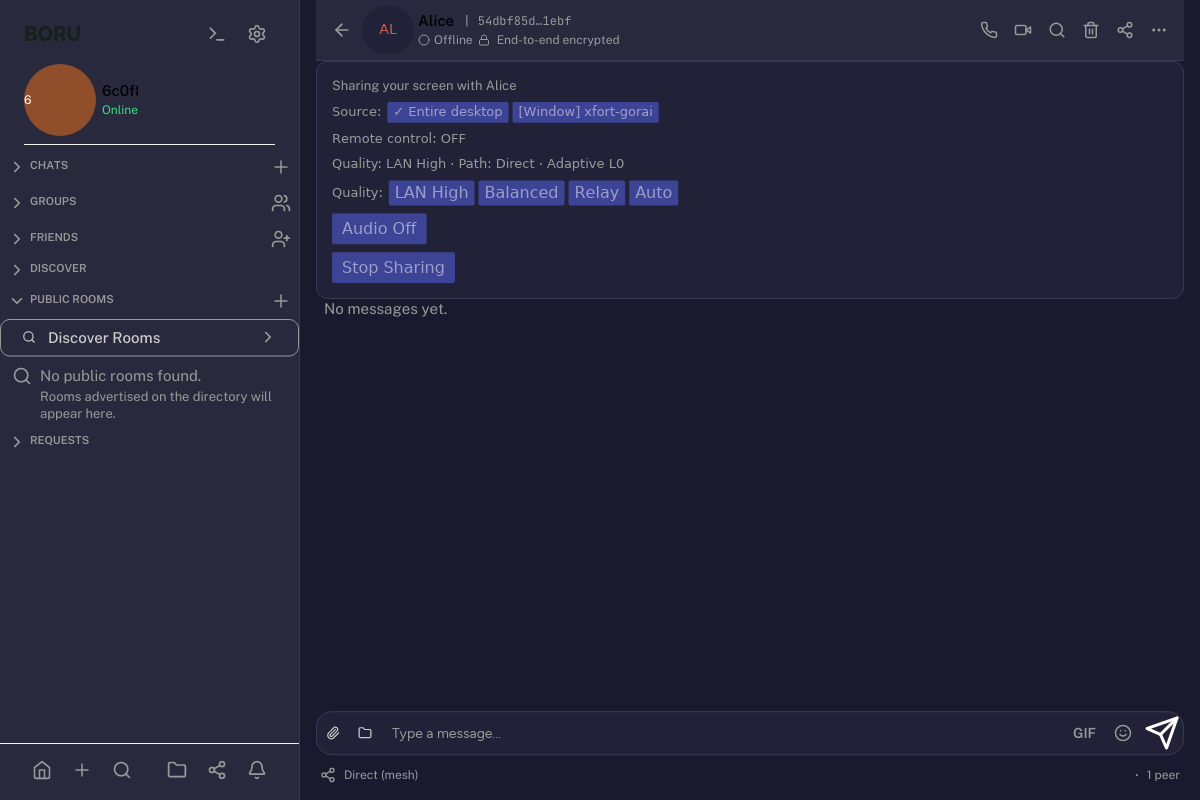
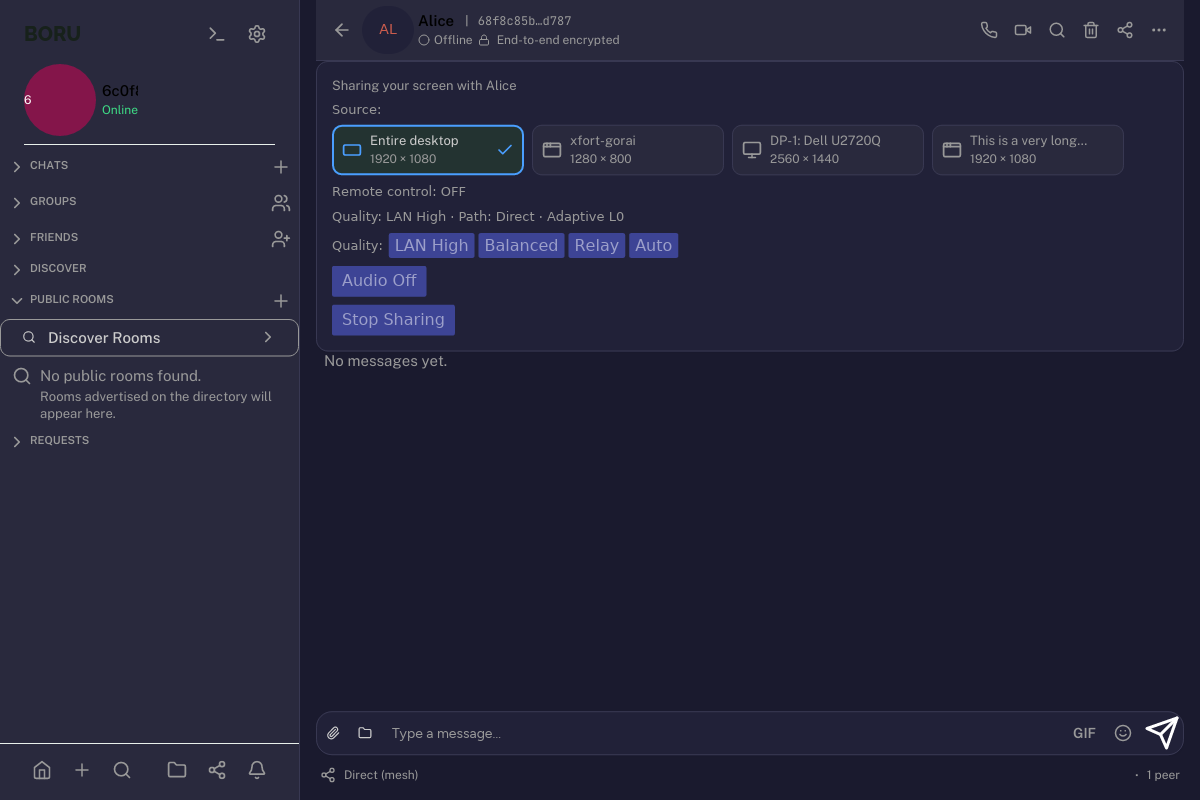
BORU-SSUI-03: screen/window source selector as cards (t_66e08287)
Replace the sender screen-share source picker's blue text buttons with
selectable source CARDS in a horizontally scrollable row (chat.rs
view_screen_share_panel). Each card shows a source-type icon, the
ellipsized runtime source/window title (Wrapping::None + clip container so
a long title can never grow the card), native dimensions on a second line,
and a clear selected state: accent 2px border + primary_soft background +
a check glyph on the right edge (never colour alone). Unselected cards use
the neutral surface with a subtle border_muted border and hover/pressed
feedback (surface_hover/surface_pressed + accent border on hover), the
same interaction language as the rest of Boru.

Distinct icons per kind via Icon::Window (app-window.svg), Icon::Desktop
(rectangle-horizontal.svg) and the existing Icon::Monitor; Icon::Panel
(panels-top-left.svg) is reserved for a future panel/special-surface kind
(document gap in icon_system.rs + source_kind_icon). The dispatch message
is unchanged (AppMessage::ScreenShareSelectSource -> HostCommand::SwitchSource),
so capture switching behaviour is preserved exactly. Style values use the
shared design tokens; BORU-SSUI-08 migrates them into screen_share.* TOML
tokens.

Offscreen capture seed now includes a Monitor source and a very long window
title; light+dark captures regenerated and vision-verified (distinct icons,
accent+check selected state, ellipsized long title, dims on line 2).
[…]

diff --git a/examples/iced_chat/app/chat.rs b/examples/iced_chat/app/chat.rs
@@ -516,37 +516,38 @@ impl IcedChat {
             }
 
             // ── Monitor/source selection (PDF Phase 13) ───────────────
-            // The enumerated monitor list is shown in every active state so
+            // The enumerated source list is shown in every active state so
             // the sharer can pick the initial source before the viewer
-            // accepts and switch it any time afterwards. The chosen entry is
-            // highlighted; picking one sends HostCommand::SwitchSource.
+            // accepts and switch it any time afterwards. The chosen entry
+            // is highlighted; picking one sends HostCommand::SwitchSource.
+            // BORU-SSUI-03: sources render as selectable CARDS (kind icon +
+            // ellipsized title + dimensions + selected state) instead of
+            // the old blue text buttons, in a horizontally scrollable row
+            // so more sources than fit never wrap into a wall of buttons.
+            // The message dispatched is unchanged — `ScreenShareSelectSource`
+            // — so capture switching behaviour is preserved exactly.
             if let Some(sources) = &self.screen_share_sources {
                 if !sources.is_empty() {
                     let selected = self.screen_share_selected_source;
-                    let source_row: Vec<iced::Element<'_, AppMessage>> = sources
+                    let cards: Vec<iced::Element<'_, AppMessage>> = sources
                         .iter()
                         .map(|source| {
                             let is_selected = selected == Some(source.id);
-                            let label = if is_selected {
-                                format!("✓ {}", source.picker_label())
-                            } else {
-                                source.picker_label()
-                            };
-                            button(text(label).size(crate::fonts::TypeRole::SupportingText.size_px()))
-                                .on_press(AppMessage::ScreenShareSelectSource(source.id))
-                                .padding([2, 6])
-                                .into()
+                            self.view_source_card(source, is_selected)
                         })
                         .collect();
                     items.push(
-                        row![
+                        column![
                             text(crate::i18n::t("screenshare.source"))
                                 .size(crate::fonts::TypeRole::SupportingText.size_px())
                                 .color(Self::muted_color(self.dark_mode)),
-                            row(source_row).spacing(SPACE_4),
+                            iced::widget::scrollable(row(cards).spacing(SPACE_8))
+                                .direction(iced::widget::scrollable::Direction::Horizontal(
+                                    iced::widget::scrollable::Scrollbar::default().spacing(SPACE_4),
+                                ))
+                                .width(Length::Fill),
                         ]
                         .spacing(SPACE_6)
-                        .align_y(iced::Alignment::Center)
                         .into(),
                     );
                 }
@@ -975,6 +976,187 @@ impl IcedChat {
             // BORU-SS-37: system audio is a separate optional capability.
             Capability::Audio => "audio".to_string(),
             Capability::ViewScreen => "view".to_string(),
+        }
+    }
+
+    #[cfg(feature = "screen-sharing")]
+    /// BORU-SSUI-03: map a capture-source kind to a distinct source-picker
+    /// icon. `CaptureSourceKind` today emits Monitor/Window/Desktop; there
+    /// is no Panel/special-surface kind yet, so `Icon::Panel` stays
+    /// reserved (documented gap — see icon_system.rs).
+    fn source_kind_icon(kind: boru_core::screen_share::CaptureSourceKind) -> Icon {
+        use boru_core::screen_share::CaptureSourceKind;
+        match kind {
+            CaptureSourceKind::Monitor => Icon::Monitor,
+            CaptureSourceKind::Window => Icon::Window,
+            CaptureSourceKind::Desktop => Icon::Desktop,
+        }
+    }
+
+    #[cfg(feature = "screen-sharing")]
+    /// BORU-SSUI-03: one selectable source card for the screen-share
+    /// source picker.
+    ///
+    /// Replaces the old blue text buttons. Each card carries a source-type
+    /// icon, the ellipsized runtime source/window title, and the native
+    /// dimensions on a second line. The selected card gets an accent
+    /// border + soft accent background + a check glyph (never colour
+    /// alone); unselected cards use a neutral surface with a subtle border
+    /// and hover/pressed feedback. Clicking dispatches the SAME
+    /// `ScreenShareSelectSource(source.id)` message the text buttons used,
+    /// so capture switching behaviour is unchanged.
+    fn view_source_card(
+        &self,
+        source: &CaptureSource,
+        selected: bool,
+    ) -> iced::Element<'_, AppMessage> {
+        use iced::widget::{button, column, container, row, text, Space};
+        use iced::Length;
+
+        const SOURCE_CARD_WIDTH: f32 = 192.0;
+        // Title char budget keeps a single card from blowing up on a very
+        // long window title; the remainder is shown as a Unicode ellipsis
+        // (the repo's `truncate_with_ellipsis` helper). `Wrapping::None` +
+        // a clip container guarantee the line never wraps and grows the
+        // card (same single-line pattern as sidebar rows).
+        const TITLE_MAX_CHARS: usize = 20;
+
+        let dark_mode = self.dark_mode;
+        let theme = self.theme();
+
+        let kind_icon = Self::source_kind_icon(source.kind);
+        let icon_color = if selected {
+            crate::design_tokens::primary
+        } else {
+            crate::design_tokens::text_secondary
+        };
+        let icon = kind_icon
+            .build()
+            .size(IconSize::Md)
+            .color_fn(icon_color)
+            .build();
+
+        let title = crate::presentation::truncate_with_ellipsis(&source.title, TITLE_MAX_CHARS);
+        let dims = format!("{} × {}", source.width, source.height);
+
+        let title_color = if selected {
+            crate::design_tokens::text_primary(&theme)
+        } else {
+            crate::design_tokens::text_secondary(&theme)
+        };
+
+        let mut card_row = row![
+            icon,
+            column![
+                container(
+                    text(title)
+                        .size(crate::fonts::TypeRole::SupportingText.size_px())
+                        .font(crate::fonts::TypeRole::SupportingText.font())
+                        .color(title_color)
+                        .wrapping(iced::widget::text::Wrapping::None)
+                        .width(Length::Fill),
+                )
+                .width(Length::Fill)
+                .clip(true),
+                text(dims)
+                    .size(crate::fonts::TypeRole::Metadata.size_px())
+                    .font(crate::fonts::TypeRole::Metadata.font())
+                    .color(Self::muted_color(dark_mode))
+                    .wrapping(iced::widget::text::Wrapping::None)
+                    .width(Length::Fill),
+            ]
+            .spacing(SPACE_2)
+            .width(Length::Fill),
+        ]
+        .spacing(SPACE_8)
+        .align_y(iced::Alignment::Center);
+
+        // Clear selection indicator — a check glyph on the right edge. It is
+        // NOT colour-alone: the accent border + soft background + check are
+        // all present, so the state reads even for colour-blind users.
+        if selected {
+            let check = Icon::Check
+                .build()
+                .size(IconSize::Sm)
+                .color_fn(crate::design_tokens::primary)
+                .build();
+            card_row = card_row.push(check);
+        } else {
+            // Reserve the same right-edge slot so cards keep an even width
+            // whether or not they are selected.
+            card_row = card_row.push(
+                Space::new()
+                    .width(Length::Fixed(IconSize::Sm.px()))
+                    .height(Length::Fixed(IconSize::Sm.px())),
+            );
+        }
+
+        let body = container(card_row)
+            .padding([SPACE_8, SPACE_10])
+            .width(Length::Fixed(SOURCE_CARD_WIDTH));
+
+        button(body)
+            .on_press(AppMessage::ScreenShareSelectSource(source.id))
+            .padding(0)
+            .style(move |t, status| Self::source_card_button_style(t, status, selected))
+            .into()
+    }
+
+    #[cfg(feature = "screen-sharing")]
+    /// BORU-SSUI-03: button style for a source card.
+    ///
+    /// Selected: accent border + `primary_soft` background (plus the check
+    /// glyph drawn in the content). Unselected: neutral `surface`
+    /// background, subtle `border_muted` border, and hover/pressed
+    /// feedback via `surface_hover` / `surface_pressed` with an accent
+    /// border on hover — the same interaction language as the rest of Boru.
+    fn source_card_button_style(
+        theme: &iced::Theme,
+        status: iced::widget::button::Status,
+        selected: bool,
+    ) -> iced::widget::button::Style {
+        let bg = if selected {
+            crate::design_tokens::primary_soft(theme)
+        } else {
+            match status {
+                iced::widget::button::Status::Hovered => crate::design_tokens::surface_hover(theme),
+                iced::widget::button::Status::Pressed => {
+                    crate::design_tokens::surface_pressed(theme)
+                }
+                _ => crate::design_tokens::surface(theme),
+            }
+        };
+        let border_color = if selected {
+            crate::design_tokens::primary(theme)
+        } else {
+            match status {
+                iced::widget::button::Status::Hovered | iced::widget::button::Status::Pressed => {
+                    crate::design_tokens::primary(theme)
+                }
+                _ => crate::design_tokens::border_muted(theme),
+            }
+        };
+        iced::widget::button::Style {
+            background: Some(iced::Background::Color(bg)),
+            text_color: if selected {
+                crate::design_tokens::primary(theme)
+            } else {
+                crate::design_tokens::text_primary(theme)
+            },
+            border: iced::Border {
+                color: border_color,
+                width: if selected {
+                    2.0
+                } else {
+                    crate::design_tokens::BORDER_WIDTH
+                },
+                radius: crate::design_tokens::RADIUS_MD.into(),
+            },
+            shadow: match status {
+                iced::widget::button::Status::Hovered => crate::design_tokens::shadow_card(theme),
+                _ => iced::Shadow::default(),
+            },
+            ..Default::default()
         }
     }
 
@@ -8147,6 +8329,35 @@ impl IcedChat {
             // update() only dispatches the chat variants here; other
             // variants can never reach this method (defensive catch-all).
             _ => iced::Task::none(),
+        }
+    }
+}
+
+#[cfg(all(test, feature = "screen-sharing"))]
+mod tests {
+    use super::*;
+
+    #[test]
+    fn source_kind_icon_maps_every_capture_kind_to_distinct_icon() {
+        use boru_core::screen_share::CaptureSourceKind;
+        let kinds = [
+            (CaptureSourceKind::Monitor, Icon::Monitor),
+            (CaptureSourceKind::Window, Icon::Window),
+            (CaptureSourceKind::Desktop, Icon::Desktop),
+        ];
+        for (kind, expected) in kinds {
+            assert_eq!(IcedChat::source_kind_icon(kind), expected);
+        }
+        // Distinct icons for distinct kinds (acceptance: different icons
+        // for monitor/desktop/window).
+        let icons: Vec<Icon> = kinds
+            .iter()
+            .map(|(k, _)| IcedChat::source_kind_icon(*k))
+            .collect();
+        for (i, a) in icons.iter().enumerate() {
+            for b in &icons[i + 1..] {
+                assert_ne!(a, b);
+            }
         }
     }
 }

diff --git a/examples/iced_chat/icon_system.rs b/examples/iced_chat/icon_system.rs
@@ -65,6 +65,10 @@ const SVG_FILM: &[u8] = include_bytes!("../../assets/icons/lucide/film.svg");
 const SVG_PHONE: &[u8] = include_bytes!("../../assets/icons/lucide/phone.svg");
 const SVG_VIDEO_CAMERA: &[u8] = include_bytes!("../../assets/icons/lucide/video-camera.svg");
 const SVG_MONITOR: &[u8] = include_bytes!("../../assets/icons/lucide/monitor.svg");
+const SVG_APP_WINDOW: &[u8] = include_bytes!("../../assets/icons/lucide/app-window.svg");
+const SVG_RECTANGLE_HORIZONTAL: &[u8] =
+    include_bytes!("../../assets/icons/lucide/rectangle-horizontal.svg");
+const SVG_PANELS_TOP_LEFT: &[u8] = include_bytes!("../../assets/icons/lucide/panels-top-left.svg");
 // Re-export the app-level constants for the Lucide icons that were already
 // embedded there.  We keep them in app.rs so app-level code that already
 // references ICON_CHAT etc. doesn't break, but the Icon enum uses them
@@ -121,6 +125,16 @@ pub enum Icon {
     /// Share a screen with a direct peer (monitor/screen glyph, distinct
     /// from the video-camera used for video calls).
     Monitor,
+    /// A single application window (lucide `app-window`) — used by the
+    /// screen-share source picker for `CaptureSourceKind::Window`.
+    Window,
+    /// The whole virtual desktop (lucide `rectangle-horizontal`) — used by
+    /// the screen-share source picker for `CaptureSourceKind::Desktop`.
+    Desktop,
+    /// A panel / special surface (lucide `panels-top-left`) — reserved for
+    /// future `CaptureSourceKind` panel surfaces; no such kind is emitted
+    /// today, so nothing maps to it yet (documented gap, BORU-SSUI-03).
+    Panel,
     Play,
     Pause,
     Volume1,
@@ -193,6 +207,9 @@ impl Icon {
             Icon::Video => SVG_FILM,
             Icon::VideoCamera => SVG_VIDEO_CAMERA,
             Icon::Monitor => SVG_MONITOR,
+            Icon::Window => SVG_APP_WINDOW,
+            Icon::Desktop => SVG_RECTANGLE_HORIZONTAL,
+            Icon::Panel => SVG_PANELS_TOP_LEFT,
             Icon::Play => SVG_PLAY,
             Icon::Pause => SVG_PAUSE,
             Icon::Volume1 => SVG_VOLUME_1,
@@ -472,6 +489,9 @@ mod tests {
             Icon::Video,
             Icon::VideoCamera,
             Icon::Monitor,
+            Icon::Window,
+            Icon::Desktop,
+            Icon::Panel,
             Icon::Play,
             Icon::Online,
             Icon::Offline,

diff --git a/examples/iced_chat/app.rs b/examples/iced_chat/app.rs
@@ -38387,6 +38387,23 @@ fn vr_create_tunnel_picker_port_validation() {
                     height: 800,
                     geometry: None,
                 },
+                CaptureSource {
+                    id: CaptureSourceId(3),
+                    kind: CaptureSourceKind::Monitor,
+                    title: "DP-1: Dell U2720Q".to_string(),
+                    width: 2560,
+                    height: 1440,
+                    geometry: None,
+                },
+                // Long window title — the card must ellipsize it (BORU-SSUI-03).
+                CaptureSource {
+                    id: CaptureSourceId(4),
+                    kind: CaptureSourceKind::Window,
+                    title: "This is a very long application window title that should be ellipsized by the source card".to_string(),
+                    width: 1920,
+                    height: 1080,
+                    geometry: None,
+                },
             ]);
             app.screen_share_selected_source = Some(CaptureSourceId(1));
             let mut stats = ScreenShareStats::new();
